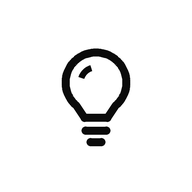
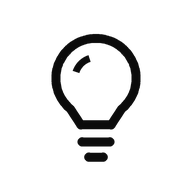
Ícone de lâmpada sem fundo
Claude-Session: https://claude.ai/code/session_018xK15feYLqgjkdUUoTKF4Z

Changed region(s): [[0.25, 0.1562, 0.75, 0.8438]]

diff --git a/sw.js b/sw.js
@@ -1,6 +1,6 @@
 // Guarda o app no aparelho para abrir rápido e funcionar sem internet.
 // Ao abrir, mostra a versão guardada e busca a mais nova em segundo plano.
-const CACHE = 'notas-v4';
+const CACHE = 'notas-v5';
 const SHELL = ['./', 'index.html', 'manifest.webmanifest', 'icon-192.png', 'icon-512.png', 'apple-touch-icon.png'];
 self.addEventListener('install', e => {
   e.waitUntil(caches.open(CACHE).then(c => c.addAll(SHELL)));
